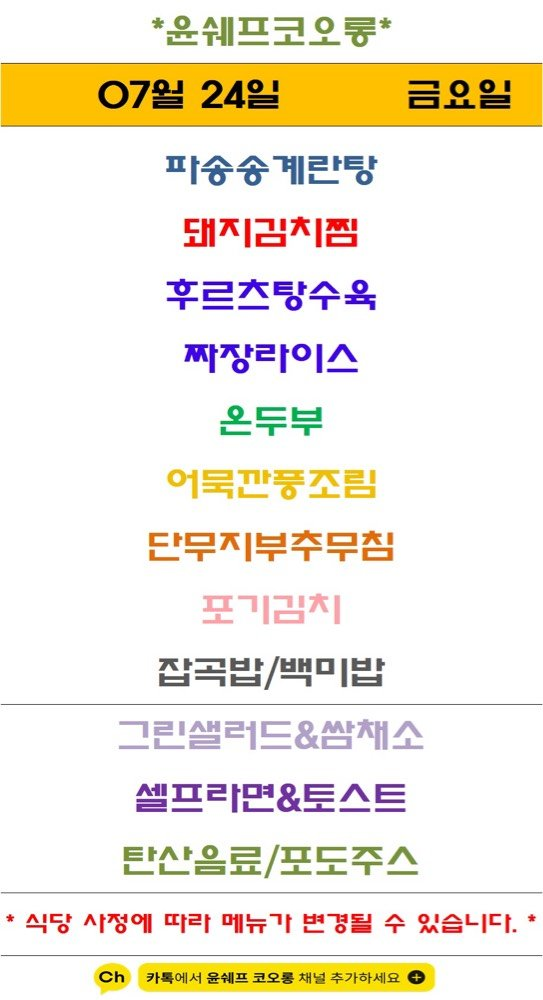
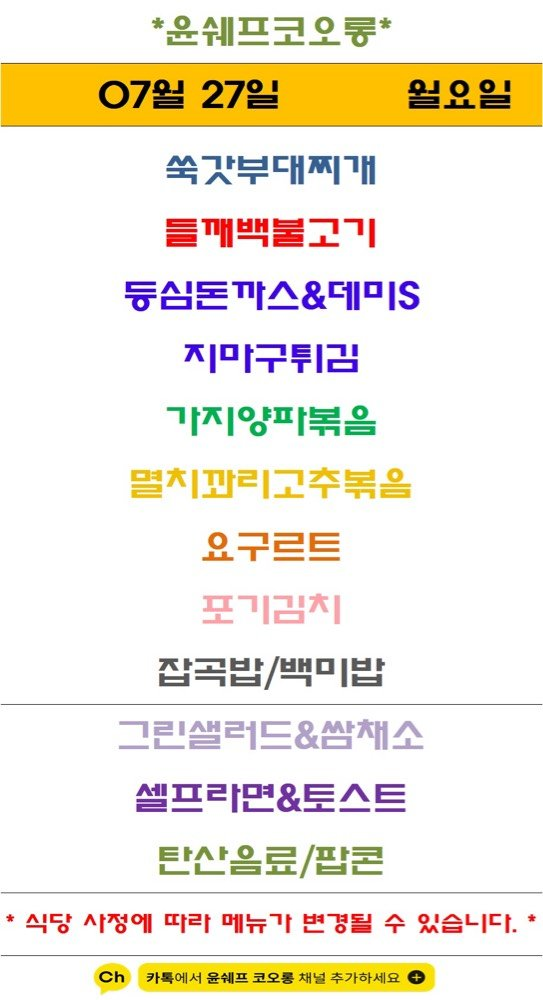
Update menu board assets

diff --git a/guro-menu/index.html b/guro-menu/index.html
@@ -32,7 +32,7 @@
   </header>
   <section class="meta">
     <div><small>기준 날짜</small><strong>2026년 7월 27일 월요일</strong></div>
-    <div><small>최종 갱신</small><strong>2026-07-27 09:03:42</strong></div>
+    <div><small>최종 갱신</small><strong>2026-07-27 09:13:19</strong></div>
     <div><small>등록 식당</small><strong>5개</strong></div>
   </section>
   <div class="notice">공개 카카오 채널의 메뉴 이미지를 자동 수집하고 OCR로 정리합니다. 텍스트에 오타가 있을 수 있으니 식단 이미지를 함께 확인해 주세요.</div>
@@ -104,7 +104,7 @@
         </div>
         <img class="menu-image" src="./images/yoon-chef-kolon.png" alt="윤쉐프 코오롱 식단 이미지" loading="lazy">
         <p class="message">최신 공개 식단 이미지의 텍스트입니다. 날짜는 원본 이미지를 확인해 주세요.</p>
-        <ul><li>파송송계란탕</li><li>댄지김지찜</li><li>후르스탕수욕</li><li>짜장라이스</li><li>온두부</li><li>단무지부주무침</li><li>잡곡밥/백미밥</li><li>그린샐러드&amp;참채소</li><li>셀프라면&amp;토스트</li><li>탄산음료/포도주스</li><li>* 식당 사정에 따라 Wat EB om 수 있습니다. *</li></ul>
+        <ul><li>쑥갓부대찌개</li><li>들깨백불고기</li><li>등심돈까스&amp;데미6</li><li>지마구튀긴</li><li>기지양파볶음</li><li>요구르트</li><li>잡곡밥/백미밥</li><li>그린샐러드&amp;쌈채소</li><li>셀프라면&amp;토스트</li><li>탄산음료/팝콘</li></ul>
       </article>
   </section>
   <section class="seo" aria-label="검색 정보">한신IT타워 구내식당 자연푸드 구내식당 더이츠푸드 벽산더이룸 윤쉐프 코오롱 한신IT타워 벽산디지털밸리7차 대륭포스트타워1차 벽산디지털밸리1차 코오롱싸이언스밸리1차 서울 구로구 디지털로 272 한신IT타워 지하1층 서울 구로구 디지털로33길 50 벽산디지털밸리7차 지하1층 서울 구로구 디지털로 288 대륭포스트타워1차 지하1층 서울 구로구 디지털로27길 24 벽산디지털밸리1차 지하1층 서울 구로구 디지털로34길 43 코오롱싸이언스밸리1차 지하1층</section>

diff --git a/menu-today/index.html b/menu-today/index.html
@@ -209,7 +209,7 @@
 
     <section class="meta-bar">
       <div class="meta-card"><div class="meta-label">기준 날짜</div><div class="meta-value">2026년 7월 27일 월요일</div></div>
-      <div class="meta-card"><div class="meta-label">최종 가져온 시간</div><div class="meta-value">2026-07-27 09:03:29</div></div>
+      <div class="meta-card"><div class="meta-label">최종 가져온 시간</div><div class="meta-value">2026-07-27 09:13:05</div></div>
       <div class="meta-card"><div class="meta-label">확인 완료</div><div class="meta-value">9개 식당</div></div>
       <div class="meta-card"><div class="meta-label">준비중</div><div class="meta-value">3개 채널</div></div>
     </section>
@@ -295,7 +295,7 @@
             <div class="sub">에이스테크노타워10차</div>
           </div>
         </div>
-        <div class="menu-inline-image"><img src="./images/thefoodsketch.png" alt="더푸드스케치 식단 이미지"></div><ul><li>잠치김치찌개</li><li>직와삼겹불고기</li><li>오코노미야끼선</li><li>푸팟동커리</li><li>= 비엔나소세지볶음</li><li>가든샐러드 &amp; 드레싱</li><li>일배기겉절이 / 음료</li><li>참치김치찌개</li><li>직화삼겹불</li></ul>
+        <div class="menu-inline-image"><img src="./images/thefoodsketch.png" alt="더푸드스케치 식단 이미지"></div><ul><li>잠치김치찌개</li><li>직와삼겹불고기</li><li>오코노미야끼선</li><li>푸팟동커리</li><li>= 비엔나소세지볶음</li><li>가든샐러드 / 드레싱</li><li>일배기겉절이 / 음료</li><li>참치김치찌개</li><li>직화삼겹불</li></ul>
       </article>
 
       <article class="restaurant-card">
